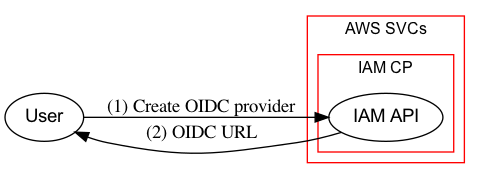
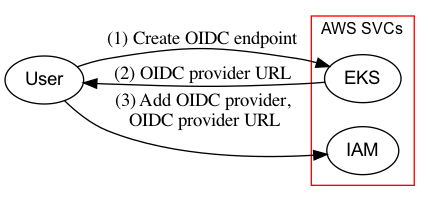
Fixed a big where two entites couldn't be deeply nested

diff --git a/examples/aws-eks-add-on-permissions/ThreatModel.html b/examples/aws-eks-add-on-permissions/ThreatModel.html
@@ -64,9 +64,9 @@
                 
                 <td>User</td>
                 
-                <td>IAM API</td>
+                <td>EKS</td>
                 
-                <td>TLS( SIGV4( Create OIDC provider ) )</td>
+                <td>TLS( SIGV4( Create OIDC endpoint ) )</td>
                 
                 </tr>
                 
@@ -75,11 +75,25 @@
                 
                 <td>2</td>
                 
-                <td>IAM API</td>
+                <td>EKS</td>
                 
                 <td>User</td>
                 
-                <td>TLS( OIDC URL )</td>
+                <td>Plaintext( OIDC provider URL )</td>
+                
+                </tr>
+                
+            
+                <tr>
+                
+                <td>3</td>
+                
+                <td>User</td>
+                
+                <td>IAM</td>
+                
+                <td>TLS( SIGV4( Add OIDC provider,
+ OIDC provider URL ) )</td>
                 
                 </tr>
                 
@@ -110,7 +124,7 @@
                 
                 <td>User</td>
                 
-                <td>IAM API</td>
+                <td>IAM</td>
                 
                 <td>TLS( SIGV4( Create Policy ) )</td>
                 
@@ -121,7 +135,7 @@
                 
                 <td>2</td>
                 
-                <td>IAM API</td>
+                <td>IAM</td>
                 
                 <td>User</td>
                 
@@ -136,7 +150,7 @@
                 
                 <td>User</td>
                 
-                <td>IAM API</td>
+                <td>IAM</td>
                 
                 <td>TLS( SIGV4( Create Role,
 Trusted Entity: Web Identity,
@@ -150,7 +164,7 @@ Attach Policy: Policy ARN ) )</td>
                 
                 <td>4</td>
                 
-                <td>IAM API</td>
+                <td>IAM</td>
                 
                 <td>User</td>
                 
@@ -218,7 +232,7 @@ Attach Policy: Policy ARN ) )</td>
                 
                 <td>User</td>
                 
-                <td>EKS API</td>
+                <td>EKS</td>
                 
                 <td>TLS( SIGV4( Create add-on CNI,
 Cluster: $clusterID ) )</td>
@@ -230,11 +244,11 @@ Cluster: $clusterID ) )</td>
                 
                 <td>2</td>
                 
-                <td>EKS API</td>
+                <td>EKS</td>
                 
                 <td>Kube API</td>
                 
-                <td>TLS( Create deployment CNI addon
+                <td>TLS( Deployment Spec:  CNI addon
 Role: Role ARN )</td>
                 
                 </tr>
@@ -246,9 +260,9 @@ Role: Role ARN )</td>
                 
                 <td>Kube API</td>
                 
-                <td>aws-iam-authenticator</td>
+                <td>eks-pod-identity-webhook</td>
                 
-                <td>TLS( Get sts token )</td>
+                <td>TLS( Pod Spec )</td>
                 
                 </tr>
                 
@@ -257,12 +271,12 @@ Role: Role ARN )</td>
                 
                 <td>4</td>
                 
-                <td>aws-iam-authenticator</td>
+                <td>eks-pod-identity-webhook</td>
                 
-                <td>IAM API</td>
+                <td>Kube API</td>
                 
-                <td>TLS( STS Assume Role,
- with web identity )</td>
+                <td>TLS( Mutated Pod Spec,
+Add projected token to spec )</td>
                 
                 </tr>
                 
@@ -271,11 +285,11 @@ Role: Role ARN )</td>
                 
                 <td>5</td>
                 
-                <td>IAM API</td>
+                <td>eks-pod-identity-webhook</td>
                 
-                <td>aws-iam-authenticator</td>
+                <td>eks-pod-identity-webhook</td>
                 
-                <td>TLS( JWT STS Token )</td>
+                <td>Internal( Meep )</td>
                 
                 </tr>
                 
@@ -284,11 +298,12 @@ Role: Role ARN )</td>
                 
                 <td>6</td>
                 
-                <td>aws-iam-authenticator</td>
-                
                 <td>Kube API</td>
                 
-                <td>TLS( JWT STS Token )</td>
+                <td>Kubelet</td>
+                
+                <td>TLS( Launch Pod,
+Pod Spec )</td>
                 
                 </tr>
                 
@@ -297,7 +312,7 @@ Role: Role ARN )</td>
                 
                 <td>7</td>
                 
-                <td>Kube API</td>
+                <td>Kubelet</td>
                 
                 <td>CNI Pod</td>
                 
@@ -335,9 +350,11 @@ JWT STS Token )</td>
                 
                 <td>CNI Pod</td>
                 
-                <td>VPC API</td>
+                <td>VPC</td>
                 
-                <td>TLS( Update VPC configuration )</td>
+                <td>TLS( Update VPC configuration,
+STS token,
+Operates as Role ARN )</td>
                 
                 </tr>
                 

diff --git a/examples/nest/ThreatModel.html b/examples/nest/ThreatModel.html
@@ -122,5 +122,38 @@
   
         <hr />
         
+        <h2> Enter Geoff </h2>
+        <img src="Enter Geoff-dfd.png">
+        <table id="dataFlowTable">
+            <tr>
+            
+                <th>Flow ID</th>
+            
+                <th>Pitcher</th>
+            
+                <th>Catcher</th>
+            
+                <th>Data Flow</th>
+            
+            </tr>
+            
+                <tr>
+                
+                <td>1</td>
+                
+                <td>Geoff</td>
+                
+                <td>Bob</td>
+                
+                <td>Internal( Oh hai )</td>
+                
+                </tr>
+                
+            
+        </table>
+
+  
+        <hr />
+        
     </body>
 </html>

diff --git a/fluentm.py b/fluentm.py
@@ -326,26 +326,20 @@ class Asset(object):
     def __init__(self, name):
         self.name = name
 
-        # If we already have an instance of this class with same name, overwrite
-        # self to point to it; i.e you can only have one Boundary called "Bob"
-        if self.__class__.__name__ in Asset._instances:
-            if name in Asset._instances[self.__class__.__name__]:
-                self.__dict__ = Asset._instances[self.__class__.__name__][name].__dict__
-                # logging.warn(f"Duplicate creation of {self.__class__.__name__}('{name}') consider using {self.__class__.__name__}.get('{name}')")
+        if self.__class__.__name__ in Asset._instances: #e.g Boundary
+            if self.name in Asset._instances[self.__class__.__name__]: # eg Boundary.name == "Internet"
+                self.__dict__ = Asset._instances[self.__class__.__name__][self.name].__dict__ # Make both Boundary objects of "internet" have the same dict
             else:
-                Asset._instances[self.__class__.__name__][name] = self
+                Asset._instances[self.__class__.__name__][self.name] = self
         else:
-            Asset._instances[self.__class__.__name__] = {name: self}
+            Asset._instances[self.__class__.__name__] = {self.name: self}
 
     # Magic str/object function
-    def inBoundary(self, boundary):
+    def inBoundary(self, boundary: Union[Boundary,str]):
         if isinstance(boundary, Boundary):
             self.boundary = boundary
         elif isinstance(boundary, str):
-            try:
-                self.boundary = Boundary.get(boundary)
-            except:
-                self.boundary = Boundary(boundary)
+            self.boundary = Boundary(boundary)
         else:
             assert False, "Bad type to inBoundary"
         return self
@@ -377,7 +371,7 @@ class Asset(object):
         return self
 
     # static / non-instantiated i.e no 'self'
-    def get(className, instanceName):
+    def _get(className, instanceName):
         assert className in Asset._instances
 
         if instanceName in Asset._instances[className]:
@@ -555,11 +549,12 @@ class DataFlow(object):
 
 def renderDfd(graph: Digraph, title: str, outputDir: str):
     graph.render(f"{outputDir}/{title}-dfd", format="png", view=False)
-    print(graph)
+    #print(graph)
     return f"{title}-dfd.png"
 
 
 def dfd(scenes: dict, title: str, dfdLabels=True, render=False, simplified=False):
+    print(f"Entering DFD: {title}")
     graph = Digraph(title)
     graph.attr(rankdir="LR", color="blue")
     graph.attr("node", fontname="Arial", fontsize="14")
@@ -581,31 +576,34 @@ def dfd(scenes: dict, title: str, dfdLabels=True, render=False, simplified=False
     for flow in scenes[title]:
         # print(flow)
         for e in (flow.pitcher, flow.catcher):
-            if e.name in placements:
-                continue  # skip to next loop
-
-            ptr = e
-            while hasattr(ptr, "boundary"):
-                if ptr.boundary not in boundaryClusters:
-                    boundaryClusters[ptr.boundary] = Digraph(
-                        name=f"cluster_{ptr.boundary.name}",
-                        graph_attr=clusterAttr | {"label": ptr.boundary.name},
-                    )
-                ptr = ptr.boundary
-
-            if hasattr(e, "boundary"):
-                placements[e.name] = boundaryClusters[e.boundary]
-            else:
-                placements[e.name] = graph
+            if e.name not in placements.keys():
+                # print(f"\n{e.name} not in\n{placements.keys()}")
+                if hasattr(e, "boundary"):
+                    ptr = e
+                    while hasattr(ptr, "boundary"):
+                        if ptr.boundary.name not in boundaryClusters:
+                            boundaryClusters[ptr.boundary.name] = Digraph(
+                                name=f"cluster_{ptr.boundary.name}",
+                                graph_attr=clusterAttr | {"label": ptr.boundary.name},
+                            )
+                        ptr = ptr.boundary
+                    
+                    placements[e.name] = boundaryClusters[e.boundary.name]
+                    # print(f"Placing {e.name} in {boundaryClusters[e.boundary]}")
+                else:
+                    placements[e.name] = graph
+                    # print(f"Placing {e.name} in graph")
 
     # Place nodes in Graphs, ready for subgraphing
     for n in placements:
         placements[n].node(n)
+        #print(f"{n} : {id(placements[n])} : {placements[n]}")
 
     # Subgraph the nodes
     for c in boundaryClusters:
-        if hasattr(c, "boundary"):
-            boundaryClusters[c.boundary].subgraph(boundaryClusters[c])
+        b = Boundary(c) # The boundary name
+        if hasattr(b, "boundary"):
+            boundaryClusters[b.boundary.name].subgraph(boundaryClusters[c])
         else:
             graph.subgraph(boundaryClusters[c])
 
@@ -630,7 +628,7 @@ def dfd(scenes: dict, title: str, dfdLabels=True, render=False, simplified=False
                 edges[(flow.catcher.name, flow.pitcher.name)] = "both"
 
         for edge in edges:
-            print(edge)
+            # print(edge)
             graph.edge(edge[0], edge[1], dir=edges[edge])
 
     else:  # simplified is False
@@ -643,6 +641,8 @@ def dfd(scenes: dict, title: str, dfdLabels=True, render=False, simplified=False
             else:
                 graph.edge(flow.pitcher.name, flow.catcher.name, f"({flowCounter})")
             flowCounter += 1
+    
+    print("Exiting DFD")
 
     return graph
 

diff --git a/example_nest.py b/example_nest.py
@@ -1,4 +1,4 @@
-from fluentm import Actor, Boundary, Process, Data, DataFlow, HTTP, TLS, SQL
+from fluentm import Actor, Boundary, Process, Data, DataFlow, HTTP, TLS, SQL, Internal
 from fluentm import report
 
 
@@ -17,6 +17,13 @@ scenes = {
             Process("Charlie").inBoundary(Boundary("B Outer")),
             Process("Alice"),
             TLS("Yo")
+        )
+    ],
+    "Enter Geoff":[
+        DataFlow(
+            Process("Geoff").inBoundary(Boundary("B Inner")),
+            Process("Bob"),
+            Internal("Oh hai")
         )
     ]
 }
